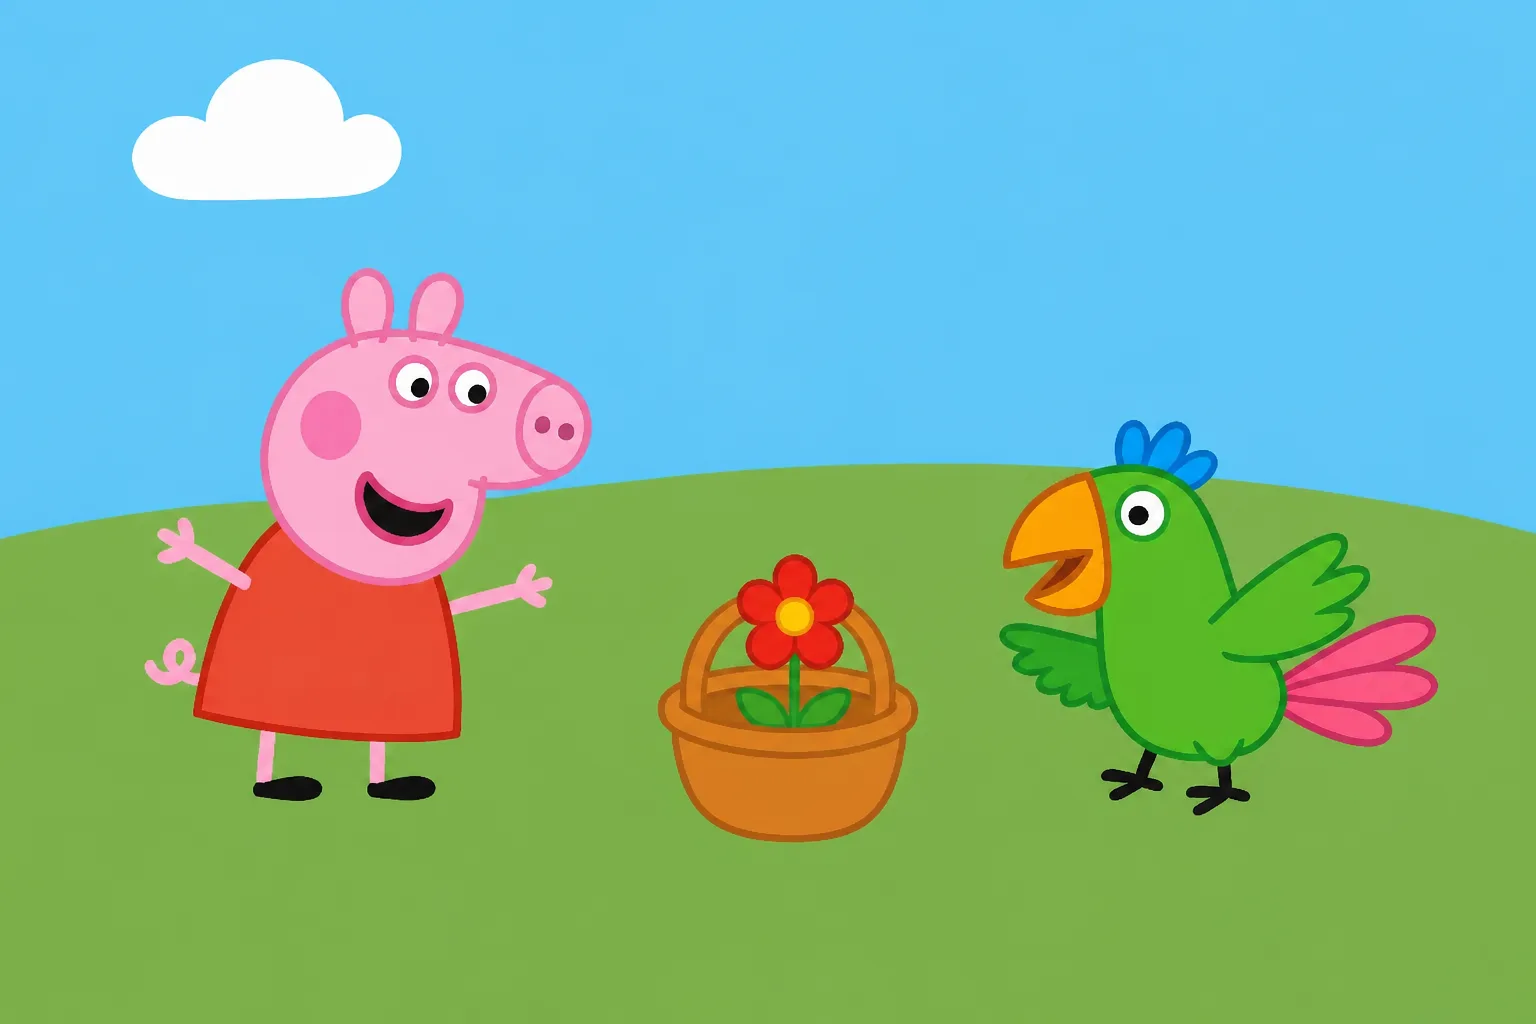
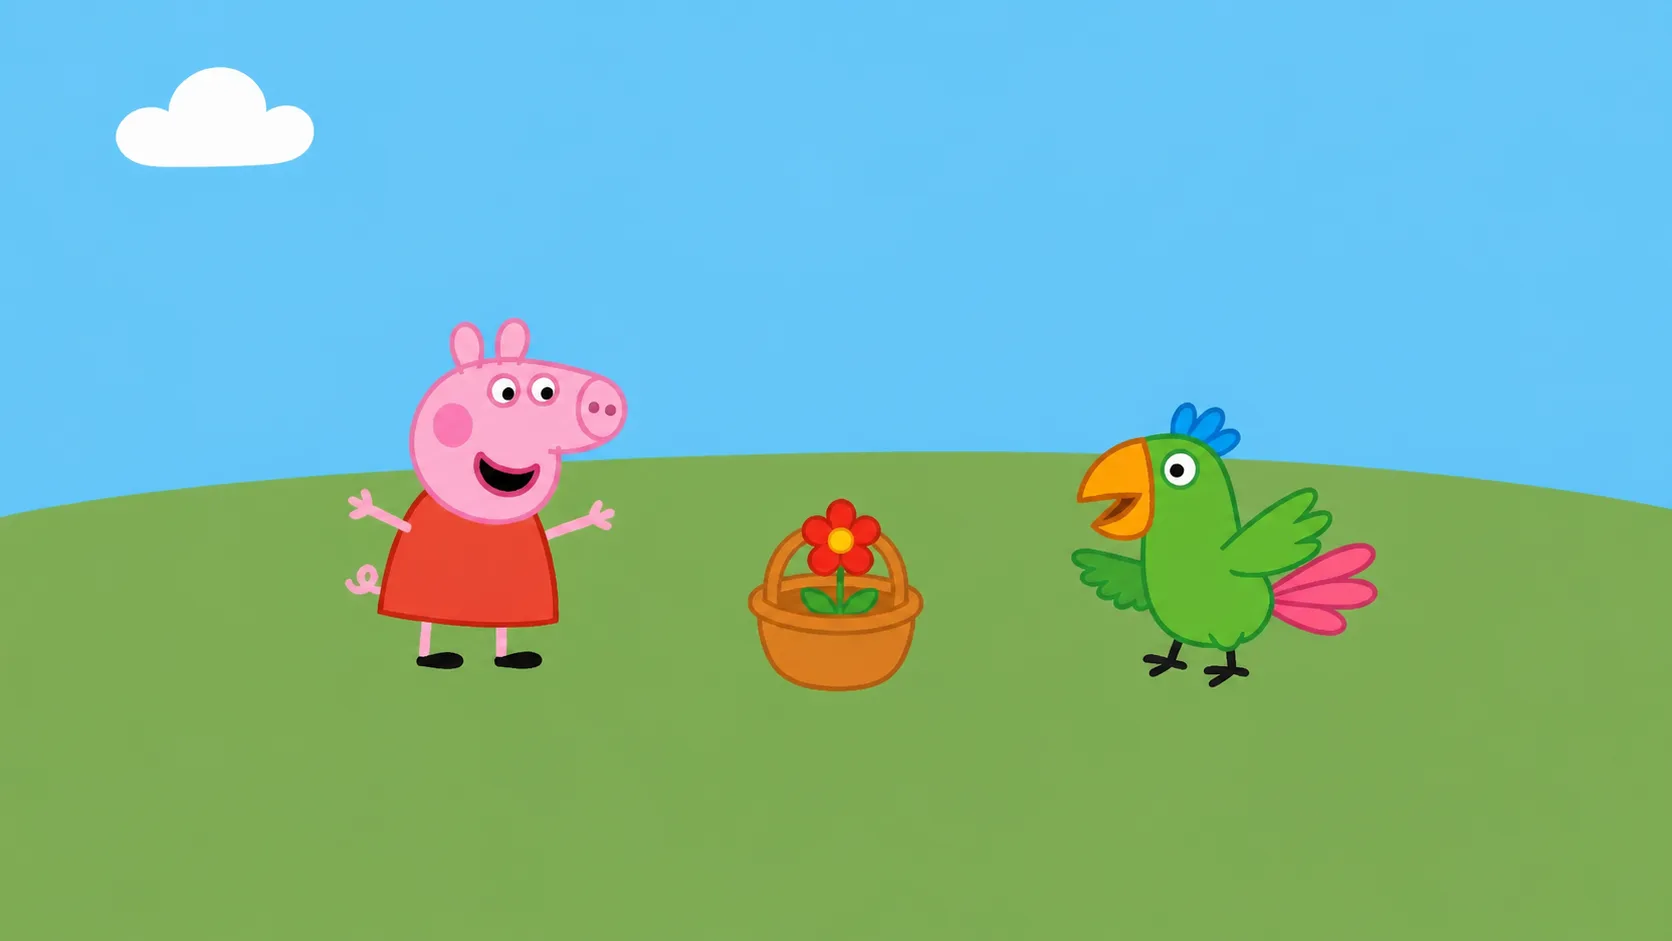
fix: keep full-scene lesson at one aspect ratio

Changed region(s): [[0.0, 0.2465, 1.0, 0.8013], [0.4062, 0.5239, 0.625, 0.8321], [0.0625, 0.0616, 0.2812, 0.2157]]

diff --git a/src/lessons/full-scene-lessons.ts b/src/lessons/full-scene-lessons.ts
@@ -45,21 +45,21 @@ export const FULL_SCENE_LESSON_VARIANTS: FullSceneLessonVariant[] = [
     id: "full-scene",
     scenes: [
       {
-        frame: { preset: "landscape" },
+        frame: { preset: "wide" },
         image: {
           alt: "Peppa and Dolly discover many colorful flowers beside their basket in the sunny garden",
           src: "/assets/full-scenes/02-garden-colors/01-colorful-flowers.webp",
         },
       },
       {
-        frame: { preset: "square" },
+        frame: { preset: "wide" },
         image: {
           alt: "Peppa points to a flower while Dolly considers its color beside the basket",
           src: "/assets/full-scenes/02-garden-colors/02-color-question.webp",
         },
       },
       {
-        frame: { preset: "portrait" },
+        frame: { preset: "wide" },
         image: {
           alt: "Dolly identifies the red flower while Peppa watches in the garden",
           src: "/assets/full-scenes/02-garden-colors/03-red-one.webp",
@@ -73,7 +73,7 @@ export const FULL_SCENE_LESSON_VARIANTS: FullSceneLessonVariant[] = [
         },
       },
       {
-        frame: { preset: "free" },
+        frame: { preset: "wide" },
         image: {
           alt: "Peppa and Dolly admire their finished basket with the red flower",
           src: "/assets/full-scenes/02-garden-colors/05-finished-basket.webp",
